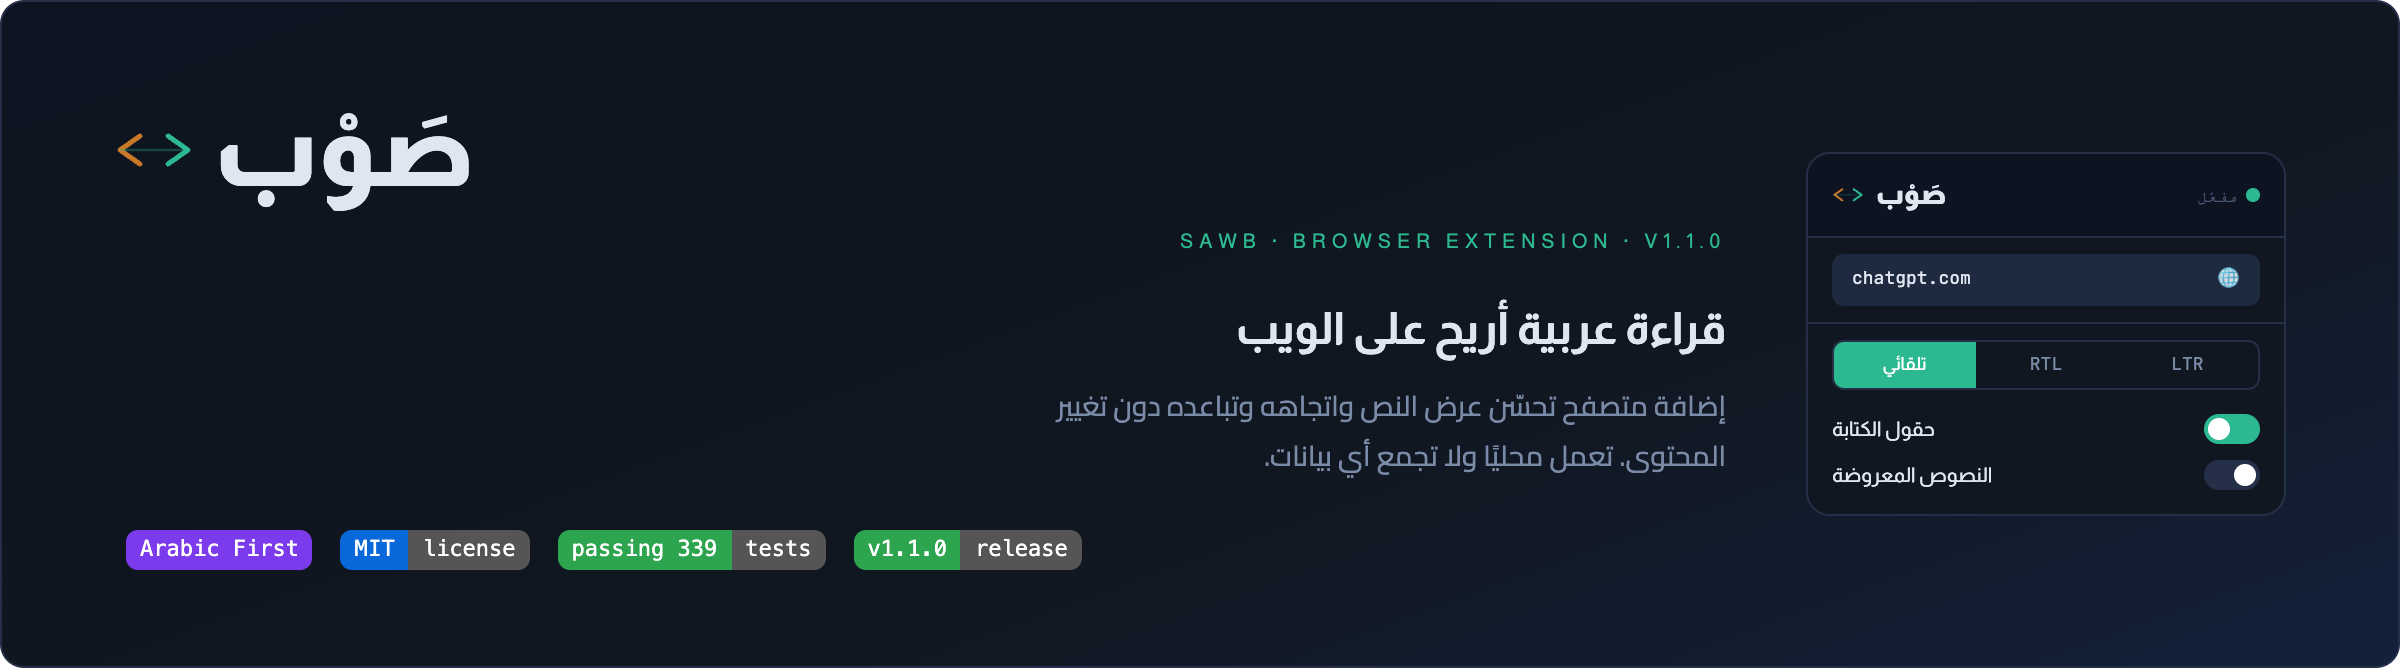
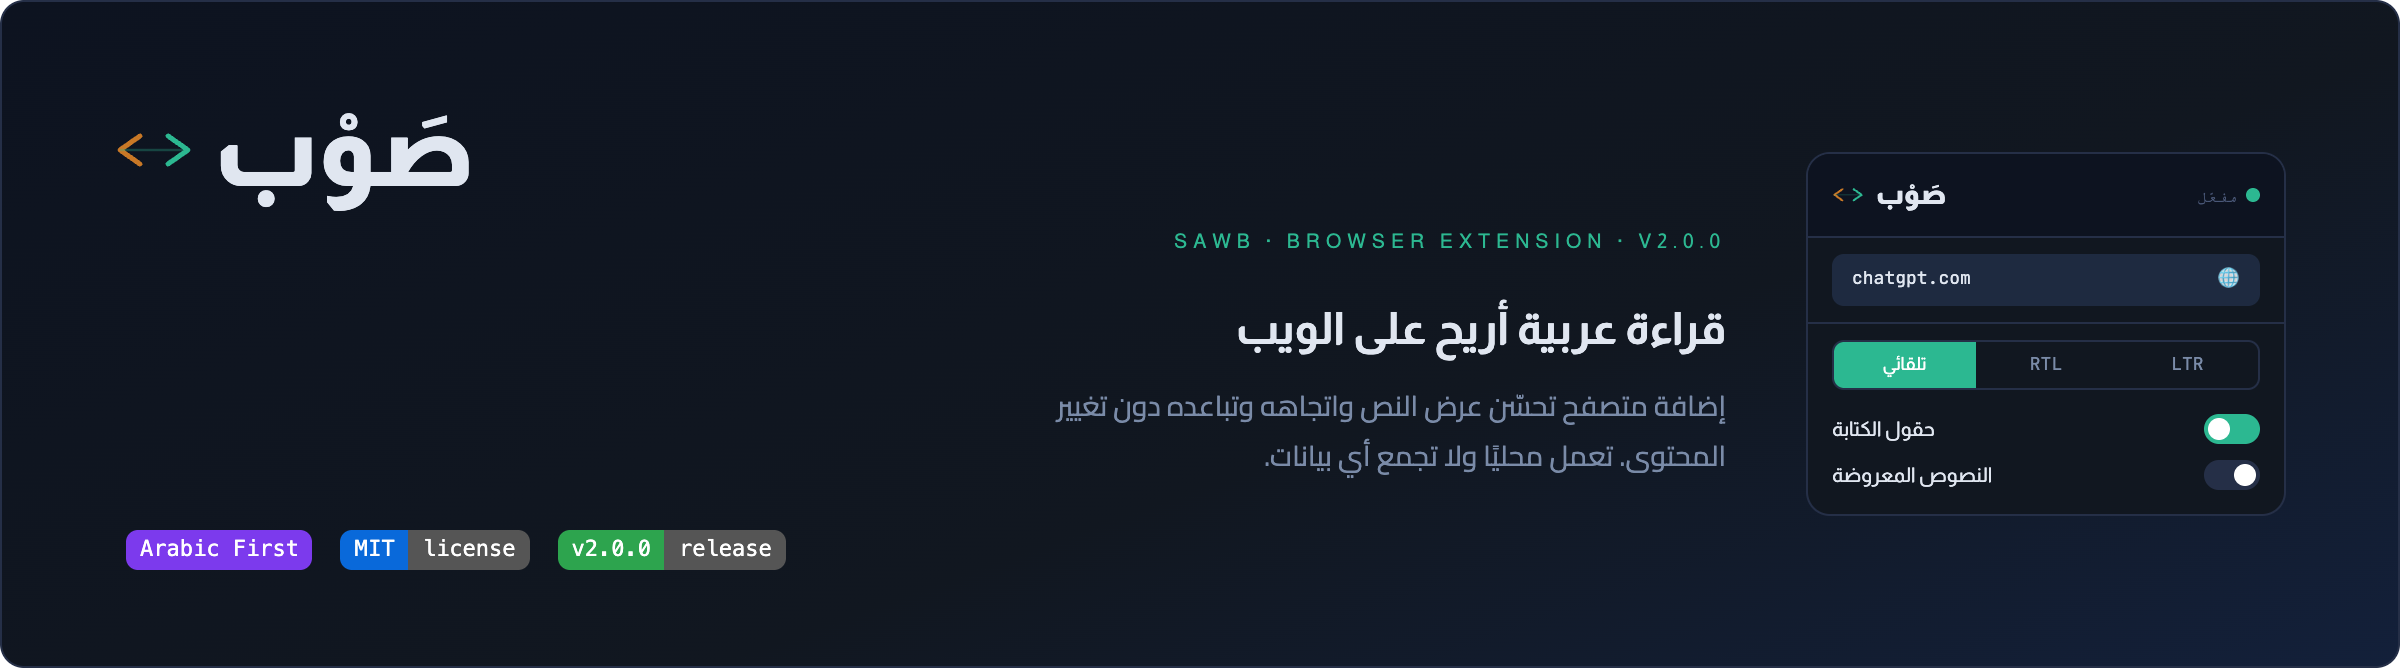
docs(release): document SAWB v2.0.0 and refresh release assets
Adds CHANGELOG.md covering everything shipped since v1.1.0: Reading
Comfort, the per-property CSS ownership model, safer restore-on-disable,
full Claude.ai site support, and the «صَوْب للمطورين» developer identity —
plus an honest compatibility/limitations section.

Updates README.md's two version mentions to v2.0.0, and the matching
tests/readme.spec.ts assertion. Fixes the stale v1.1.0 title in
docs/BROWSER-READINESS.md.

Regenerates docs/images/readme-hero.png: version badge and tagline now
read v2.0.0, and the "339 passing" tests badge is removed entirely so
the image never bakes in a number that drifts out of sync with the
suite. Layout, colors, and dimensions are otherwise unchanged.

Changed region(s): [[0.2188, 0.7761, 0.4688, 0.8657], [0.5, 0.3284, 0.6875, 0.3881]]

diff --git a/tests/readme.spec.ts b/tests/readme.spec.ts
@@ -68,7 +68,7 @@ describe('README content', () => {
     expect(readme).toContain('SAWB');
     expect(readme).toContain('تصميم وبرمجة سلطان');
     expect(readme).toContain('By Sultan');
-    expect(readme).toContain('الإصدار الرسمي الحالي هو **v1.1.0**');
+    expect(readme).toContain('الإصدار الرسمي الحالي هو **v2.0.0**');
     expect(readme).toContain('manifest.json');
   });
 

diff --git a/CHANGELOG.md b/CHANGELOG.md
@@ -1,0 +1,67 @@
+<div dir="rtl">
+
+# سجل التغييرات
+
+جميع التغييرات المهمة في هذا المشروع تُوثَّق في هذا الملف.
+
+## [2.0.0] — 2026-07-17
+
+### أُضيف
+
+- **راحة القراءة (Reading Comfort):** ضبط عام لحجم الخط وتباعد الأسطر على الكتل
+  المصنَّفة عربية/RTL في النصوص المعروضة فقط — لا يمسّ حقول الكتابة ولا النص
+  الإنجليزي. مطفأة افتراضيًا؛ تُضبط قيمتاها من مفتاحَي انزلاق عامَّين في
+  الإعدادات، مع مفتاح تفعيل سريع لكل موقع في النافذة المنبثقة.
+- **نموذج ملكية CSS لكل خاصية:** يتتبّع محرك الاتجاه، لكل عنصر وكل خاصية على
+  حدة (حجم الخط، تباعد الأسطر، الاتجاه)، ما إذا كانت صَوْب أم الموقع المضيف هي
+  المالكة الحالية لتلك القيمة.
+- **صَوْب للمطورين:** حالة هوية اختيارية وعرضية بحتة للنافذة المنبثقة وصفحة
+  الإعدادات، تتضمن شريط تشخيص حي يعرض حالة الصفحة الفعلية.
+
+### تغيّر
+
+- أصبحت الاستعادة عند التعطيل تُزيل فقط الخصائص التي ما زالت صَوْب تملكها،
+  بدل مسح شامل لكل ما كانت طبّقته — فأي تعديل لاحق من الموقع نفسه على تلك
+  الخاصية يبقى محفوظًا بدل أن تُطاح به الاستعادة.
+- أصبح مفتاح راحة القراءة السريع في النافذة المنبثقة يقلب الطلب المخزَّن
+  الخام لا القيمة الفعلية المشروطة بعرض النصوص — فتفضيل محفوظ لا يُفقَد أبدًا
+  أثناء إيقاف «النصوص المعروضة» مؤقتًا.
+- أُعيد بناء README بالكامل: بنية المشروع الحقيقية، أوامر npm الفعلية، جدول
+  أذونات وقيود مطابق للكود، ولقطات منتج حقيقية بدل الرسوم التوضيحية السابقة.
+- إضافة دعم كامل لموقع Claude، بما يشمل حقول الكتابة والنصوص المعروضة
+  والردود المتدفقة.
+
+### أُصلح
+
+- منع تضاعف قيمة تكبير الخط عند تداخل جذور عرض (مثلًا 1.08× مطبَّقة مرتين
+  على عنصر متداخل داخل آخر).
+- ضبط قيم راحة القراءة الواردة من التخزين ضمن نطاقها المعتمد قبل وصولها إلى
+  DOM، فلا يمكن لقيمة تخزين تالفة أن تنتج CSS غير صالح.
+- تنظيف العناصر المحمية المتجاوَزة من أي سمات متبقية قبل تخطّيها، بدل تركها
+  في حالة وسطى.
+
+### صَوْب للمطورين
+
+- وضع اختياري، مطفأ افتراضيًا، وعرضي بحت — لا يُغيّر أي سلوك فعلي.
+- شريط تشخيص في النافذة المنبثقة يعرض قيمًا حية: المحوّل النشط (ADAPTER)،
+  مستوى الدعم (SUPPORT)، الاتجاه المطبَّق (DIR)، وحالة راحة القراءة (RC).
+- عزل تام عن `EffectiveConfig`: الحقل `devMode` لا يدخل ضمن الإعداد الفعّال
+  إطلاقًا، فمحرك الاتجاه وسكربت المحتوى لا يريانه، ومعالجة الصفحة متطابقة
+  بايتًا بايت في الوضعين.
+- لا يتضمن حاليًا فاحصًا تفصيليًا لكل عنصر أو لوحة ملكية CSS — الشريط ملخّص
+  تشخيصي فقط، ليس أداة فحص عناصر.
+
+### التوافق والقيود الحالية
+
+- لا تغيير في الأذونات: ما زالت `storage` فقط، إضافة إلى سكربت المحتوى على
+  جميع المواقع الموجود أصلًا.
+- Chrome مختبر مباشرة.
+- Edge وBrave وArc متوافقة مبدئيًا بوصفها متصفحات Chromium بمعيار Manifest
+  V3، دون تحقق مباشر مستقل.
+- Firefox وSafari غير مدعومة حاليًا.
+- نطاقات Substack المخصصة تعمل بالوضع العام (لا تُميَّز كمواقع Substack).
+- محررات CodeMirror مستثناة عمدًا (محتوى محمي).
+- راحة القراءة تتطلب تفعيل «النصوص المعروضة»؛ مع إيقافه يبقى التفضيل
+  المحفوظ دون تطبيق.
+
+</div>

diff --git a/README.md b/README.md
@@ -78,7 +78,7 @@
 
 ## التثبيت والاستخدام
 
-الإصدار الرسمي الحالي هو **v1.1.0**، وكل الإصدارات تُنشر في [صفحة الإصدارات](https://github.com/iSltanX/SAWB/releases) على GitHub. روابط متاجر المتصفحات ستُضاف هنا عند توفرها.
+الإصدار الرسمي الحالي هو **v2.0.0**، وكل الإصدارات تُنشر في [صفحة الإصدارات](https://github.com/iSltanX/SAWB/releases) على GitHub. روابط متاجر المتصفحات ستُضاف هنا عند توفرها.
 
 1. نزّل ملف `sawb-chromium-vX.Y.Z.zip` المرفق بأحدث إصدار، وفُك ضغطه.
 2. افتح `chrome://extensions` (أو ما يقابلها في متصفحك) وفعّل **وضع المطوّر**.
@@ -206,4 +206,4 @@ npm run build
 
 <p align="center" dir="rtl"><b>تصميم وبرمجة سلطان</b><br>By Sultan · <a href="https://github.com/iSltanX">github.com/iSltanX</a></p>
 
-<p align="center"><code>MIT License</code> · <code>v1.1.0</code> · <code>صَوْب · SAWB</code></p>
+<p align="center"><code>MIT License</code> · <code>v2.0.0</code> · <code>صَوْب · SAWB</code></p>

diff --git a/docs/BROWSER-READINESS.md b/docs/BROWSER-READINESS.md
@@ -1,4 +1,4 @@
-# Safari & Firefox readiness — SAWB v1.1.0
+# Safari & Firefox readiness — SAWB v2.0.0
 
 The extension is a standard WebExtension (MV3) with a deliberately small API
 surface. All extension-API access goes through `src/platform/ext.ts`
